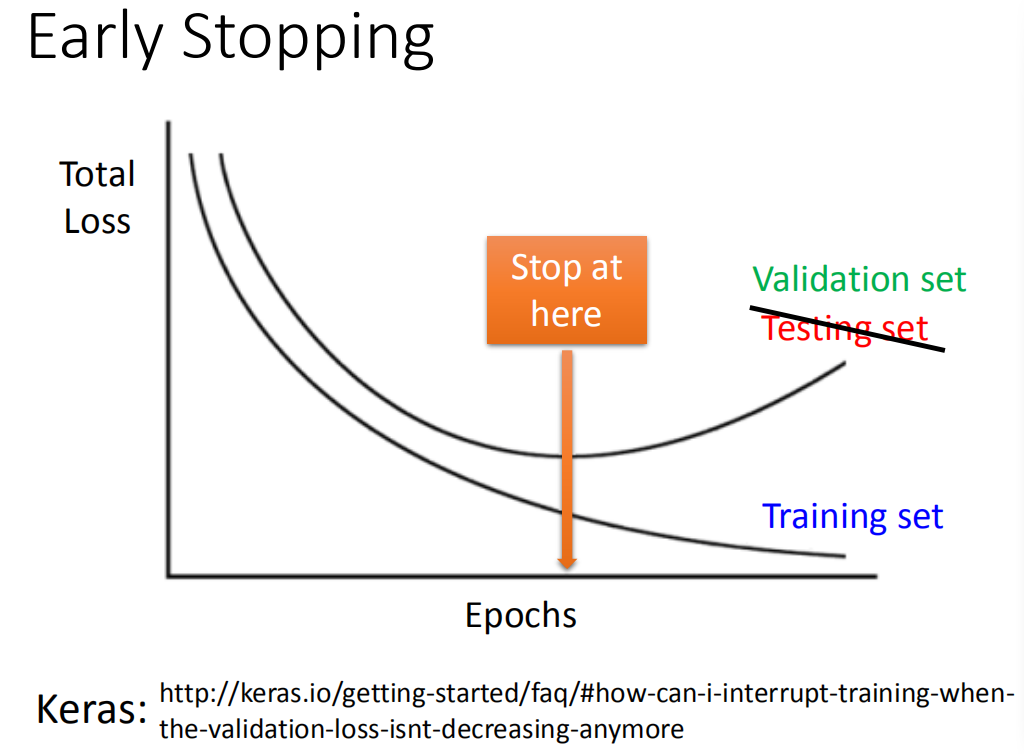
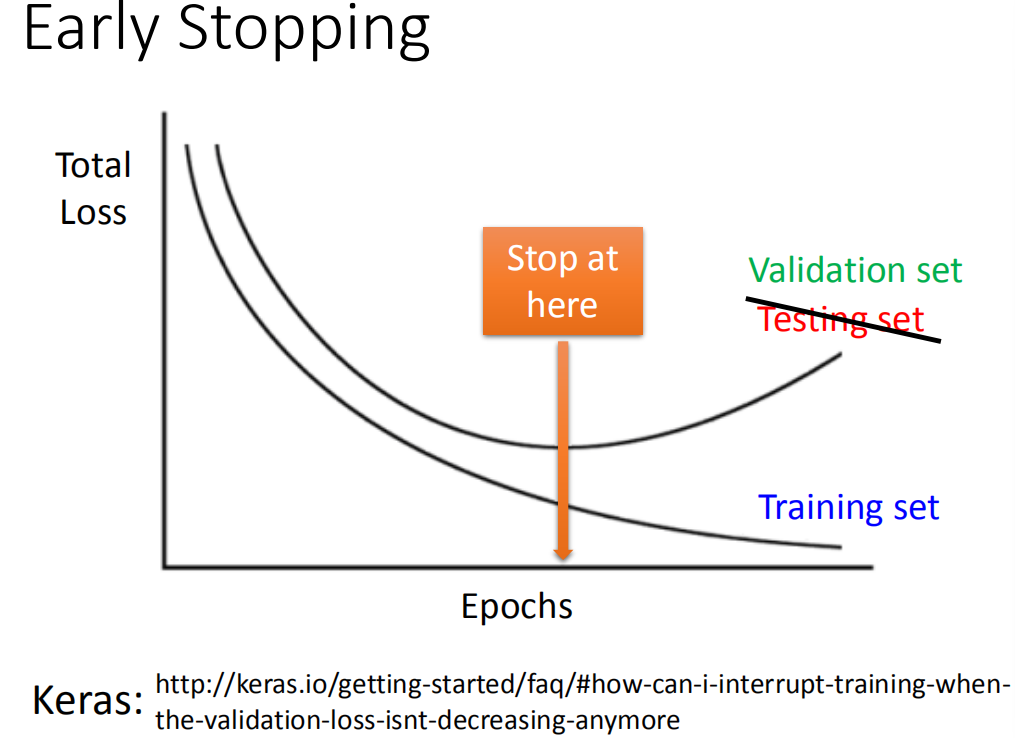
更新1

diff --git a/docs/chapter29/chapter29.md b/docs/chapter29/chapter29.md
@@ -1,8 +1,4 @@
 
-
-
-
-
 # Why VAE?
 
 我们来看intuitive reason，为什么要用VAE？如果是原来的auto-encoder的话，做的事情是：把每一张image变成一个code，假设现在的code是一维(图中红色的线)。你把满月这个图变为code上的一个value，在做decoder变回原来的图，半月图也是一样的。假设我们在满月和半月code中间，sample一个点，然后把这个点做decoder变回image，他会变成什么样子呢？你可能会期待说：可能会变成满月和半月之间的样子，但这只是你的想象而已。因为我们今天用的encoder和decoder都是non-linear的，都是一个neural network，所以你很难预测在这个满月和半月中间到底会发生什么事情。
@@ -48,7 +44,8 @@
 
 每一个x都是从某一个mixture被sample出来的，这件事情其实就很像是做classification一样。我们每一个所看到的x，它都是来自于某一个分类。但是我们之前有讲过说：把data做cluster是不够的，更好的表示方式是用distributed representation，也就是说每一个x它并不是属于某一个class，而是它有一个vector来描述它的各个不同面向的特性。所以VAE就是gaussion mixture model distributed representation的版本。
 
-[在这里插入图片描述](res/chapter29-5.png) 
+![在这里插入图片描述](res/chapter29-5.png) 
+
 
 
 
